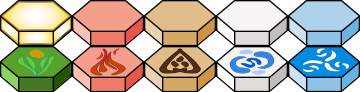
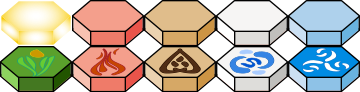
* slightly change assets for selection * correct number keys "1-7" to "1-8" in description

Changed region(s): [[0.0, 0.0, 0.2139, 0.5]]

diff --git a/IsometricTilesHexagon.cpp b/IsometricTilesHexagon.cpp
@@ -1,6 +1,6 @@
 /*
  Created on 13. April 2022
- Last modified on 15. April 2022
+ Last modified on 19. April 2022
  Author: bondoki
  
  Purpose: Rendering of the hexagon tiles in various layout to emphasize pseudo 2.5 view.
@@ -523,7 +523,7 @@ public:
       DrawString(4, 24, "Style: " + sBoardName, olc::BLACK);
       
       DrawString(4, ScreenHeight()-20, "Use left and right mouse button to toggle tiles.", olc::BLACK);
-      DrawString(4, ScreenHeight()-10, "Use number keys 1-7 to toggle layout.", olc::BLACK);
+      DrawString(4, ScreenHeight()-10, "Use number keys 1-8 to toggle layout.", olc::BLACK);
       
       // Graceful exit if user is in full screen mode
       return !GetKey(olc::Key::ESCAPE).bPressed;

diff --git a/README.md b/README.md
@@ -14,10 +14,10 @@ Just do for standard compilation (tested with gcc 8.2.1):
 ````
 
 ## Usage
-Simply use the mouse to hover on the board.
-Use the left mouse button to toggle the tile style.
-Use the right mouse button to toggle the tile on/off.
-Use the number keys 1-7 to select board style.
+Simply use the mouse to hover on the board.  
+Use the left mouse button to toggle the tile style.  
+Use the right mouse button to toggle the tile on/off.  
+Use the number keys 1-8 to select board style.  
 ESC : quit
 
 
